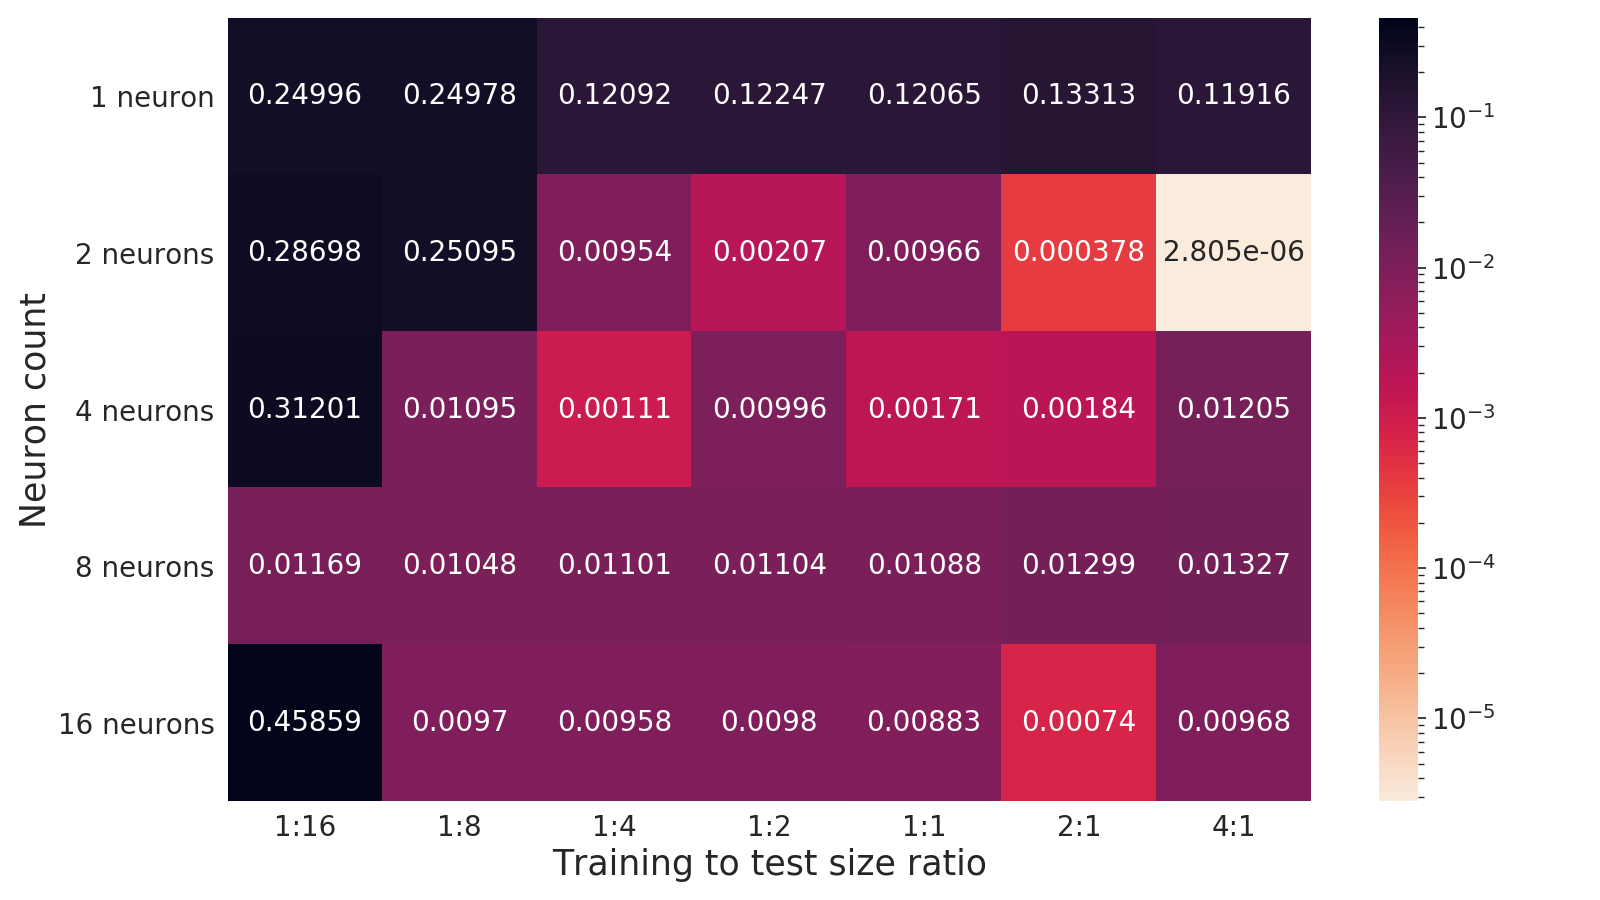
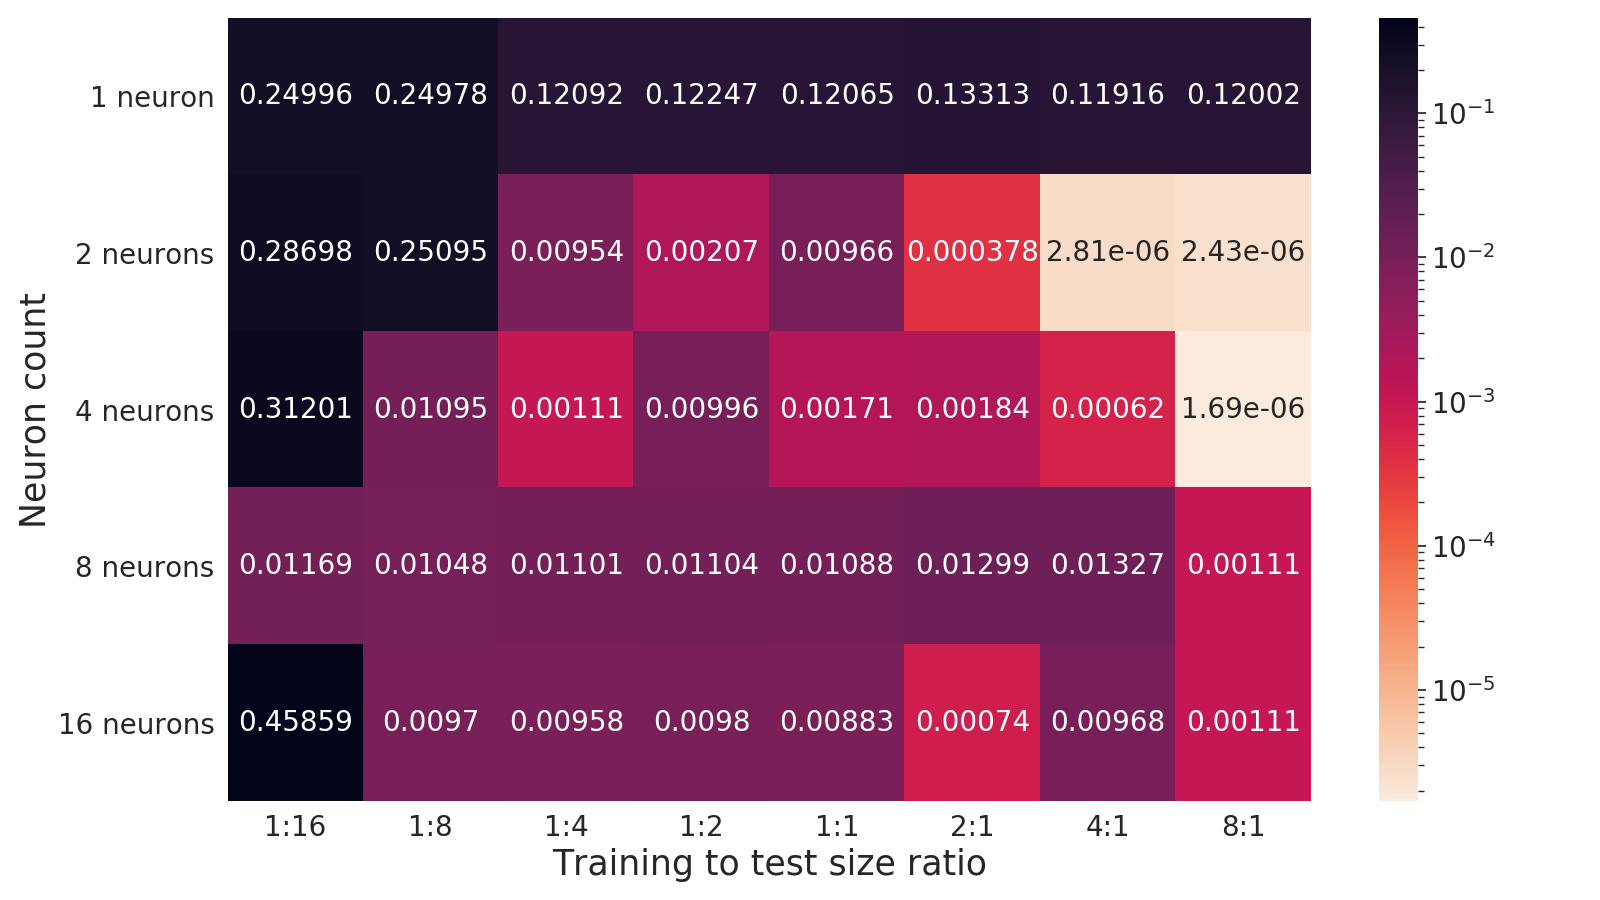
Perform research

diff --git a/Main.py b/Main.py
@@ -30,7 +30,6 @@ if __name__ == '__main__':
 
     input, output = readData('dataset.csv')
     # Create NN
-    p = Perceptron(input.shape[1], output.shape[1], hidden_neurons=16)
 
     k = 5
 
@@ -42,33 +41,35 @@ if __name__ == '__main__':
     test_input = input[test_idx]
     test_output = output[test_idx]
 
-    train_loss = []
-    test_loss = []
+    for n in [1, 2, 4, 8, 16]:
+        p = Perceptron(input.shape[1], output.shape[1], hidden_neurons=n)
+        train_loss = []
+        test_loss = []
 
-    for j in range(100):
-        loss_sum = 0.0
-        for i in range(len(train_output)):
-            # if i == len(train_output)-1:
-            #     print("for iteration # " + str(i) + "\n")
-            #     print("Actual Output: \n" + str(train_output[i]))
-            #     print("Predicted Output: \n" + str(p.getOutput()))
-            #     print("Loss: \n" + str((np.square(train_output[i] - p.getOutput()))))  # mean sum squared loss
-            #     print("\n")
+        for j in range(2):
+            loss_sum = 0.0
+            for i in range(len(train_output)):
+                # if i == len(train_output)-1:
+                #     print("for iteration # " + str(i) + "\n")
+                #     print("Actual Output: \n" + str(train_output[i]))
+                #     print("Predicted Output: \n" + str(p.getOutput()))
+                #     print("Loss: \n" + str((np.square(train_output[i] - p.getOutput()))))  # mean sum squared loss
+                #     print("\n")
 
-            p.train(train_input[i], train_output[i])
-            loss_sum += np.square(train_output[i] - p.getOutput())
-        train_loss.append(loss_sum / float(len(train_output)))
+                p.train(train_input[i], train_output[i])
+                loss_sum += np.square(train_output[i] - p.getOutput())
+            train_loss.append(loss_sum / float(len(train_output)))
 
-        # calculate loss on test data
-        loss_sum = 0.0
-        for i in range(len(test_output)):
-            loss_sum += np.square(test_output[i] - p.test(test_input[i]))
-        avg_loss = loss_sum / float(len(test_output))
-        test_loss.append(avg_loss)
-
-        print(j, avg_loss)
-
-    Chart.makeTwoPlots(train_loss, test_loss)
+            # calculate loss on test data
+            loss_sum = 0.0
+            for i in range(len(test_output)):
+                loss_sum += np.square(test_output[i] - p.test(test_input[i]))
+            avg_loss = loss_sum / float(len(test_output))
+            test_loss.append(avg_loss)
+            print(n, j, avg_loss)
+        Chart.addToPlot(test_loss, str(n) + ' neurons')
+        # Chart.addToPlot(test_loss)
+        # Chart.plotTrainingTestLosses(train_loss, test_loss)
     Chart.show()
 
 

diff --git a/Chart.py b/Chart.py
@@ -10,13 +10,19 @@ ax.set_xlabel('Iteration')
 
 class Chart:
     @staticmethod
-    def makeTwoPlots(data1, data2):
+    def plotTrainingTestLosses(data1, data2):
         ax.plot(data1, 'blue', label='Training set loss', picker=0.01)
         ax.plot(data2, 'red', label='Test set loss', picker=0.01)
         max_value = max(data1[0])
         ax.set_yticks(list(np.arange(0, max_value, 0.01)), minor=True)
         ax.set_xticks(list(range(0, len(data1), 10)), minor=True)
         ax.legend(loc='upper right')
+
+    @staticmethod
+    def addToPlot(data, label=''):
+        ax.plot(data, label=label, picker=0.01)
+        ax.legend()
+        plt.yscale("log")
 
     @staticmethod
     def show():

diff --git a/Dokumentacja.md b/Dokumentacja.md
@@ -35,7 +35,7 @@ Roman Moskalenko
 ![first_chart](charts/first_chart.png)
 
 - Przez pierwsze 30 iteracji możemy zaobserwować dużą strate na zbiorze walidacyjnym (czerwona linia).
-- Po czym następuje zerowa strata, z czego można wywnioskować że sieć dopasowała się do danych (przeuczenie sieci).
+- Po czym następuje prawie zerowa strata. Mamy podejrzenie, że sieć dopasowała się do danych (przeuczenie sieci).
 
 **Podział zbioru danych na treningowy i testowy**
 
@@ -45,7 +45,7 @@ na tym zbiorze sprawdzamy efektywność działania sieci.
 
 ![second_chart](charts/simple_validation_2neurons.png)
 
-- Już na 13 iteracji strata na zbiorze testowym osiągnęła 0.002 i utrzymywała się taka w przeciągu pozostałych iteracji.
+- Już na 13 iteracji strata na zbiorze testowym osiągnęła 0.002 (później się okazało to jest duża strata) i utrzymywała się taka w przeciągu pozostałych iteracji.
 
 **Zależność straty od liczby neuronów i podziału danych**
 Badamy jak zmienia się strata na zbiorze testowym w zależności od liczby neuronów i stosunku liczności zbioru
@@ -55,22 +55,35 @@ Straty po 100 iteracjach uczenia
 
 ![heattable](charts/neuron_partition_heattable.png)
 
-Ciekawy wnioski z tabeli:
-- perceptron z 2 neuronami pokazał najlepsze wyniki spośród wszystkich badanych modyfikacji
-- możliwe, że wieleneuronowe perceptrony potrzebują więcej iteracji żeby móc nauczyć się
-- perceptron może nauczyć się nawet gdy dane treningowe stanowią połowę lub mniej od całego zbioru
-lecz wtedy rośnie strata
-
 <!--
-| | 1:16 | 1:8 | 1:4 | 1:2 | 1:1 | 2:1 | 4:1 |
-|---|---|---|---|---|---|---|---|
-| 1 | 0.24996987 | 0.24978884 | 0.1209201 | 0.12247378 | 0.12065256 | 0.13313197 | 0.11916315 |
-| 2 | 0.28698771 | 0.25095842 | 0.00954373 | 0.00207549 | 0.00966817 | 3.7384e-04 | 2.80576709e-06 |
-| 4 | 0.31201701 | 0.01095525 | 0.0011118 | 0.00996514 | 0.00171979 | 0.00184599 | 0.01205114 |
-| 8 | 0.01169527 | 0.01048587 | 0.01101799 | 0.01104446 | 0.01088784 | 0.01299843 | 0.01327238 |
-| 16| 0.45859595 | 0.00970373 | 0.00958819 | 0.00980373 | 0.00883177 | 0.00074566 | 0.00968324 |
+| | 1:16 | 1:8 | 1:4 | 1:2 | 1:1 | 2:1 | 4:1 | 8:1 |
+|---|---|---|---|---|---|---|---|---|
+| 1 | 0.24996987 | 0.24978884 | 0.1209201 | 0.12247378 | 0.12065256 | 0.13313197 | 0.11916315 | 0.12001857 |
+| 2 | 0.28698771 | 0.25095842 | 0.00954373 | 0.00207549 | 0.00966817 | 3.7384e-04 | 2.80576709e-06 | 2.42590592e-06 |
+| 4 | 0.31201701 | 0.01095525 | 0.0011118 | 0.00996514 | 0.00171979 | 0.00184599 | 0.00061646 | 1.6865149e-06 |
+| 8 | 0.01169527 | 0.01048587 | 0.01101799 | 0.01104446 | 0.01088784 | 0.01299843 | 0.01327238 | 0.00110838 |
+| 16| 0.45859595 | 0.00970373 | 0.00958819 | 0.00980373 | 0.00883177 | 0.00074566 | 0.00968324 | 0.00110679 |
 -->
+Wnioski z tabeli:
+- perceptron z 1 neuronem przy żadnym z podziałów nie pokazał dobrych wyników.
+- perceptron z 2 oraz 4 neuronami spradził się nieco lepiej niż perceptrony z 8 i 16.
+- perceptron może nauczyć się nawet gdy dane treningowe stanowią połowę lub mniej od całego zbioru
+lecz wtedy strata jest porównywalnie duża.
+- możliwe, że 100 iteracji to jednak zbyt mało by nauczyć perceptron.
 
+**Porównanie strat dla większej liczby iteracji dla różnej liczby neuronów**
+
+Jeszcze dwa razy uruchomiliśmy sieć dla 100 i 400 iteracji dla podziału danych 4:1.
+
+Wykresy teraz mają skalę logarytmiczną.
+
+|||
+|---|---|
+|![doubleactiv_100iter](charts/doubleactiv_100iter.png)|![doubleactiv_100iter2](charts/doubleactiv_100iter2.png)|
+|![doubleactiv_400iter](charts/doubleactiv_400iter.png)|![doubleactiv_400iter2](charts/doubleactiv_400iter2.png)|
+
+Widać, że liczba iteracji ma duże znaczenie. Większość wariacji perceptronu zmniejsza stratę dopiero po 100 iteracjach.
+Jednak ciężko przewidzieć w którym momencie nastąpi zmniejszenie straty i czy w ogóle nastąpi.
 
 ## Listę wykorzystanych narzędzi i bibliotek
 Język programowania
